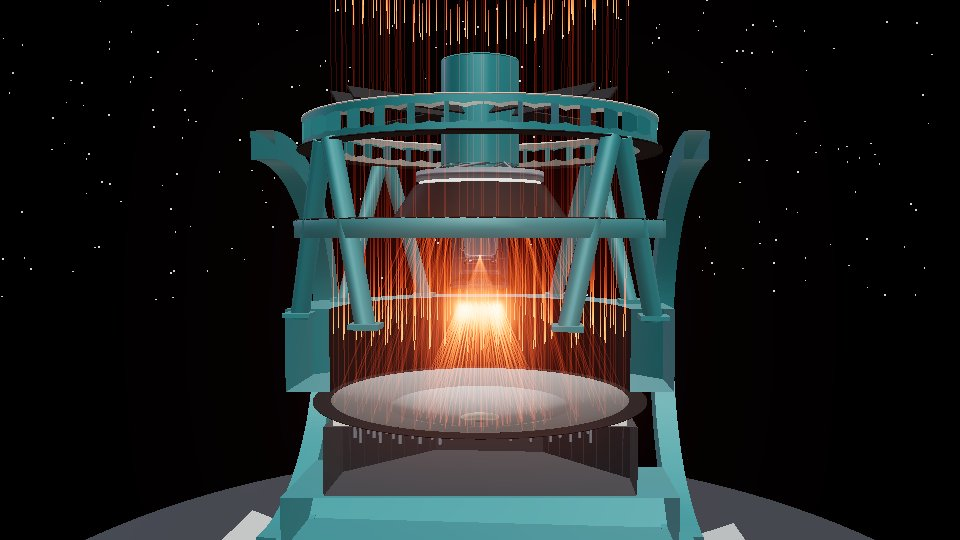
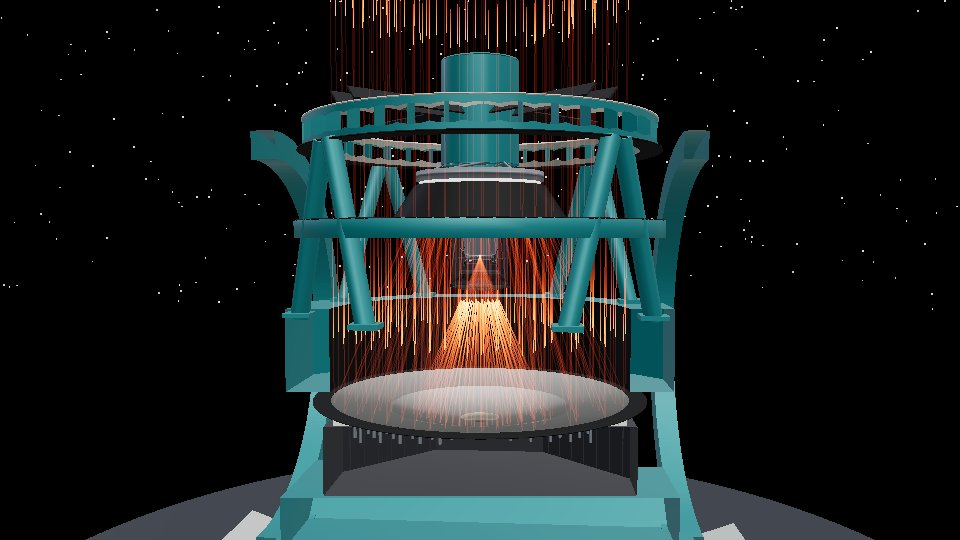
Telescope page: no glow, no lenses & filters toggle, show full paths under continuous light
- Bloom pass removed from this page (no glow, as the project rules ask); glow slider removed
- 'lenses & filters' toggle removed (the Focal plane view still hides them)
- 'show full paths' moved right below 'continuous light'
- Thumbnail regenerated without bloom

Claude-Session: https://claude.ai/code/session_01R5LZwJjZazSGhcxCfqX75D

Changed region(s): [[0.3125, 0.237, 0.6875, 0.7111], [0.375, 0.7704, 0.625, 0.8296]]

diff --git a/src/apps/telescope.ts b/src/apps/telescope.ts
@@ -11,14 +11,13 @@ import { buildHuman } from '../scene/human';
 import { CameraTween, createLabels, createViewer, faceCutPlane, glowTexture, createGui } from './common';
 
 // ---------------------------------------------------------------- renderer & scene
-const { renderer, scene, camera, controls, composer, bloom, onResize } = createViewer({
+const { renderer, scene, camera, controls, composer, onResize } = createViewer({
   fov: 40,
   near: 0.02,
   far: 2000,
   exposure: 0.9,
   background: 0x05070d,
   roomEnvironment: 0.55,
-  bloom: [0.9, 0.3, 1.3],
 });
 camera.position.set(17, 12, 19);
 controls.target.set(0, AXIS_HEIGHT + 1.5, 0);
@@ -64,11 +63,10 @@ const state = {
   showPaths: true,
   cutaway: true,
   labels: true,
-  glass: true,
+  glass: true, // lenses & filters shown; only the 'Focal plane' view hides them
   elevation: 90,
   azimuth: 0,
   mount: true,
-  bloom: 0.9,
 };
 
 const tel = buildTelescope(Rubin.forBand(BAND));
@@ -298,15 +296,13 @@ const fLight = gui.addFolder('Light');
 fLight.add(state, 'rings', 3, 14, 1).name('ray density').onChange(requestRetrace);
 fLight.add(state, 'speed', 0.2, 8, 0.1).name('light speed (m/s)').onChange(updateInfo);
 fLight.add(state, 'continuous').name('continuous light');
-fLight.add({ fire: () => ((state.continuous = false), (head = 0), gui.controllersRecursive().forEach((c) => c.updateDisplay())) }, 'fire').name('▶ send one wavefront');
 fLight.add(state, 'showPaths').name('show full paths');
+fLight.add({ fire: () => ((state.continuous = false), (head = 0), gui.controllersRecursive().forEach((c) => c.updateDisplay())) }, 'fire').name('▶ send one wavefront');
 const fView = gui.addFolder('View');
 for (const k of Object.keys(VIEWS)) fView.add({ [k]: () => goView(k) }, k);
 fView.add(state, 'cutaway').name('cutaway');
 fView.add(state, 'labels').name('labels');
-fView.add(state, 'glass').name('lenses & filters');
 fView.add(state, 'mount').name('mount & structure');
-fView.add(state, 'bloom', 0, 2, 0.05).name('glow').onChange((v: number) => (bloom!.strength = v));
 const fPoint = gui.addFolder('Pointing');
 // preset pointings: the elevation slider glides to the target (ease in-out); dragging it cancels
 const POINTINGS: Record<string, number> = { Zenith: 90, '35° elevation': 35, Horizon: 0 };
